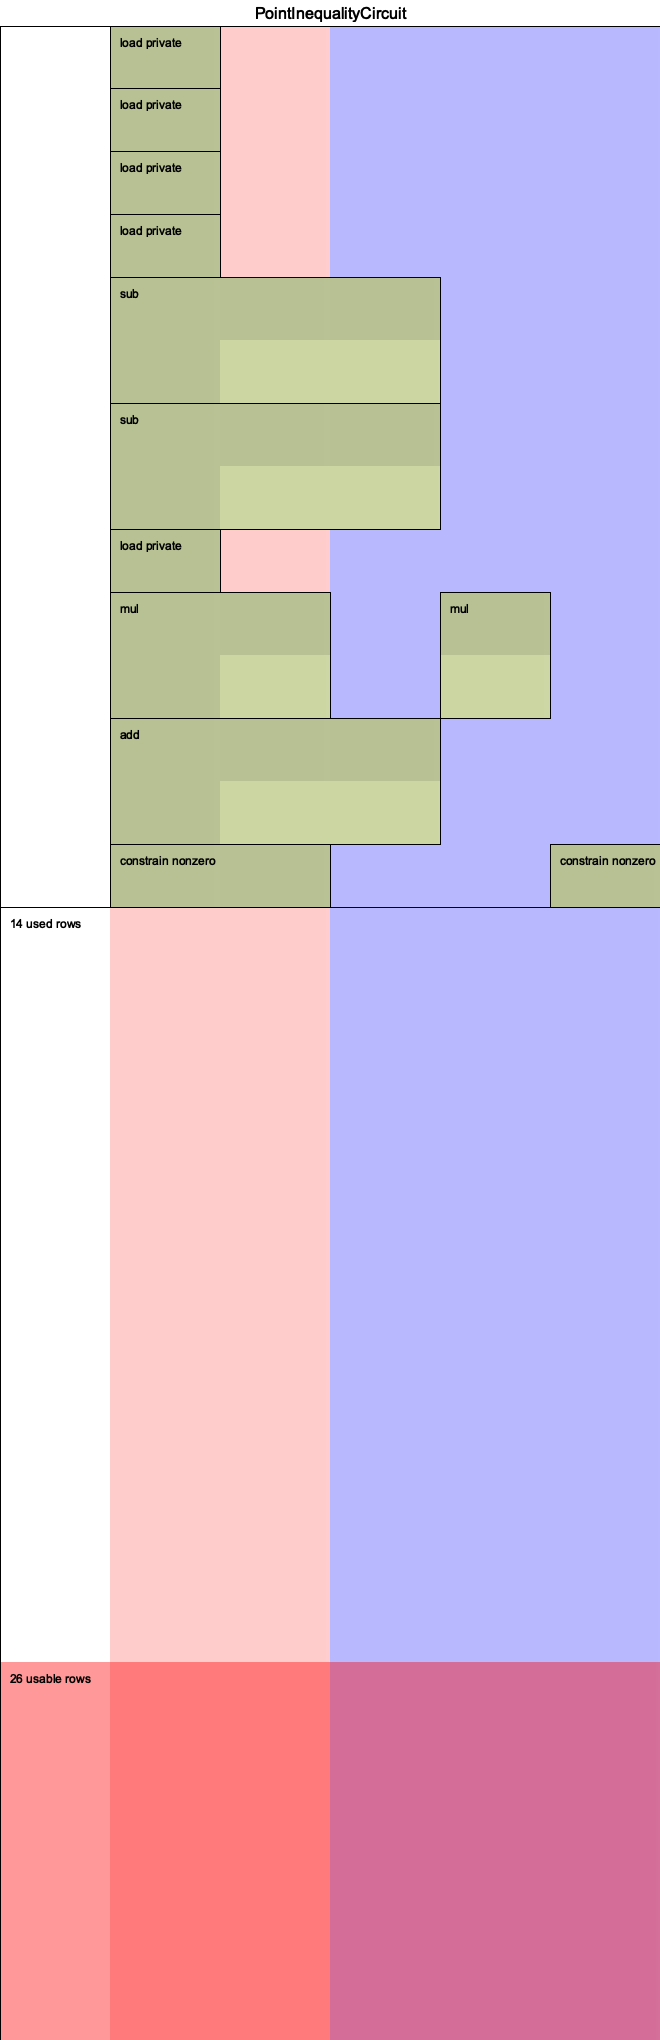
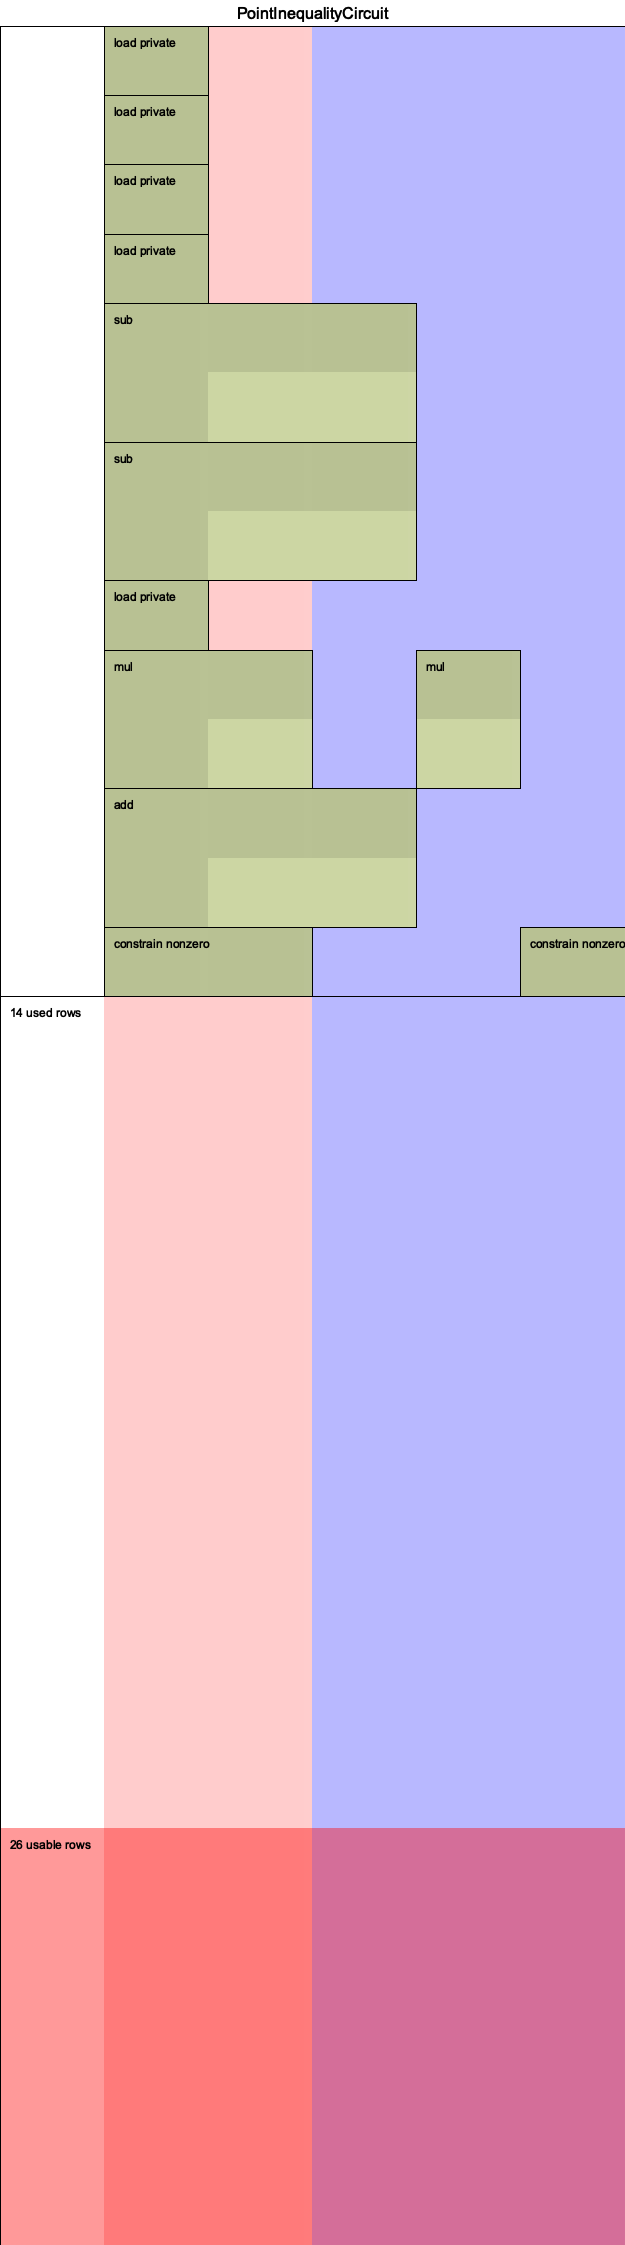
further optimise cols

diff --git a/halo2_proofs/examples/point-inequality.rs b/halo2_proofs/examples/point-inequality.rs
@@ -614,11 +614,10 @@ fn main() {
     println!("SUCCESS: Circuit correctly rejected equal points!");
 
     let cell_size = 60; // pixels per cell
-    let num_cols = 9;
+    let num_cols = 5;
     let num_rows = 1 << k; // 1 << 5 = 32
-    let padding = 120; // title + margins
+    let padding = 325; // title + margins
     let canvas_w = (num_cols * cell_size) as u32 + padding;
-
     let canvas_h = (num_rows * cell_size) as u32 + padding;
 
     // Render the Whole Circuit
